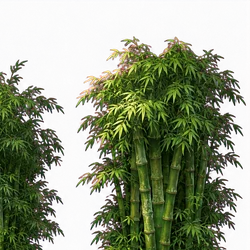
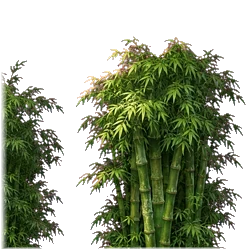
Fix nen map: map-full phu kin hinh thoi (outpaint nua phai, 2304x1152), overview zoom vua khit + center map, bo rectangle fog -> gradient mem, bamboo het vien hop (alpha bien 91->0), cache-bust asset ?v=26

Changed region(s): [[0.308, 0.14, 0.98, 1.0], [0.0, 0.224, 0.28, 1.0], [0.28, 0.42, 0.308, 0.448]]

diff --git a/js/game.js b/js/game.js
@@ -245,12 +245,12 @@ class Main extends Phaser.Scene {
     const M = this.M = this.cache.json.get('man');
     this.load.spritesheet('tiles', 'assets/tiles/terrain-base.png', { frameWidth: 128, frameHeight: 64 });
     for (const p of ['pine', 'oak', 'sakura', 'rock', 'bush', 'lantern', 'grass', 'bamboo', 'willow', 'bamboo-hedge', 'bamboo-clump', 'bamboo-strip', 'bamboo-far', 'bridge', 'shrine', 'paddy', 'hut', 'cart',
-      'house-a', 'house-b', 'house-c', 'house-d', 'house-e', 'house-f', 'gate', 'flag', 'drum', 'well']) this.load.image(p, (p.startsWith('house-') ? 'assets/props2/' : 'assets/props3/') + p + '.webp');
+      'house-a', 'house-b', 'house-c', 'house-d', 'house-e', 'house-f', 'gate', 'flag', 'drum', 'well']) this.load.image(p, (p.startsWith('house-') ? 'assets/props2/' : 'assets/props3/') + p + '.webp?v=' + (window.__KT_VER || 26));
     for (const [cid, ch] of Object.entries(M.chars)) { this.load.image('map-hd:' + cid, 'assets/map-hd-png/' + cid + '.png'); for (const [cl, c] of Object.entries(ch.clips)) { this.load.spritesheet(cid + ':' + cl, LT + c.file, { frameWidth: c.w, frameHeight: c.h }); this.load.spritesheet('hdx:' + cid + ':' + cl, HDLT + c.file, { frameWidth: c.w * 2, frameHeight: c.h * 2 }); } }
     for (const k of ['npc-pho', 'npc-mo']) this.load.image(k, LT + k + '.webp');
     for (const k of ['grass', 'dirt', 'brick', 'stone']) this.load.image('tex-' + k, 'assets/tex/' + k + '.jpg');
     this.load.image('tex-ground-paint', 'assets/tex/ground-paint.webp');
-    this.load.image('map-full', 'assets/tex/map-full.jpg');
+    this.load.image('map-full', 'assets/tex/map-full.jpg?v=' + (window.__KT_VER || 26));
     this.load.json('propdefs', 'assets/props.json');
     this.load.json('walkmask', 'assets/data/walkmask.json');
     this.load.image('arena', 'assets/arena.jpg');
@@ -450,8 +450,15 @@ class Main extends Phaser.Scene {
       for (let i = 0; i < 26; i++) { const t = i / 26; g.fillStyle(0x0a1208, t * 0.055); g.fillCircle(R0 * 0.62, R0 * 0.62, R0 * (0.74 - t * 0.46)); }
       g.generateTexture('vig', Math.round(R0 * 1.3), Math.round(R0 * 1.3)); g.destroy();
       const vig = this.add.image(innerWidth / 2, innerHeight / 2, 'vig').setScrollFactor(0).setDepth(9e5).setAlpha(0.55);
-      const fog = this.add.rectangle(innerWidth / 2, innerHeight * 0.12, innerWidth * 1.2, innerHeight * 0.5, 0xcfd8c0, 0.10).setScrollFactor(0).setDepth(9e4);
-      this.scale.on('resize', sz => { vig.setPosition(sz.width / 2, sz.height / 2).setDisplaySize(sz.width * 1.15, sz.height * 1.15); fog.setPosition(sz.width / 2, sz.height * 0.12).setSize(sz.width * 1.2, sz.height * 0.5); });
+      // sương mù phía xa: gradient mềm (bỏ rectangle phẳng -> hết hình chữ nhật mờ có cạnh cứng)
+      const cvF = document.createElement('canvas'); cvF.width = 8; cvF.height = 256;
+      const cf = cvF.getContext('2d'); const grF = cf.createLinearGradient(0, 0, 0, 256);
+      grF.addColorStop(0, 'rgba(207,216,192,0)'); grF.addColorStop(0.42, 'rgba(207,216,192,0.13)'); grF.addColorStop(1, 'rgba(207,216,192,0)');
+      cf.fillStyle = grF; cf.fillRect(0, 0, 8, 256);
+      if (this.textures.exists('haze')) this.textures.remove('haze');
+      this.textures.addCanvas('haze', cvF);
+      const fog = this.add.image(innerWidth / 2, innerHeight * 0.06, 'haze').setScrollFactor(0).setDepth(9e4).setDisplaySize(innerWidth, innerHeight * 0.5);
+      this.scale.on('resize', sz => { vig.setPosition(sz.width / 2, sz.height / 2).setDisplaySize(sz.width * 1.15, sz.height * 1.15); fog.setPosition(sz.width / 2, sz.height * 0.06).setDisplaySize(sz.width, sz.height * 0.5); });
       this.atmo = { vig, fog }; }
 
     // input
@@ -593,7 +600,14 @@ if ($('ovBtn')) $('ovBtn').onclick = () => this.toggleOverview(); $('skAuto').on
     const on = force === undefined ? !this.overview : !!force;
     this.overview = on;
     const cam = this.cameras.main;
-    cam.setZoom(on ? 0.11 * DPR : camZoomFor(innerWidth, innerHeight));
+    if (on) {
+      // zoom vua khit ca hinh thoi (truoc day fix 0.11 -> map chi chiem nua trai man hinh)
+      const zf = Math.min(this.scale.width / (N * TW + 160), this.scale.height / (N * TH + 120));
+      cam.stopFollow(); cam.setZoom(zf); cam.centerOn(0, N * TH / 2);
+    } else {
+      cam.setZoom(camZoomFor(innerWidth, innerHeight));
+      cam.startFollow(this.hero.spr, true, 0.12, 0.12);
+    }
     HUD.toast(on ? 'Toàn map · bấm M để quay lại' : 'Quay lại');
     for (const m of this.mobs) if (!m.dead) { m.spr.setVisible(true); if (m.shadow) m.shadow.setVisible(true); }
   }

diff --git a/index.html b/index.html
@@ -120,11 +120,11 @@
 <div id="err" style="display:none;position:fixed;left:0;right:0;bottom:0;max-height:45%;overflow:auto;background:#5a0f0f;color:#ffd9d9;font:12px/1.35 Consolas,monospace;padding:8px 10px;z-index:9999;white-space:pre-wrap"></div>
 <script src="vendor/phaser.min.js"></script>
 <script src="js/ground.js"></script>
-<script>window.__KT_VER=20;</script>
-<script src="js/loot.js?v=25"></script>
-<script src="js/story.js?v=25"></script>
-<script src="js/afk-battle.js?v=25"></script>
-<script src="js/game.js?v=25"></script>
+<script>window.__KT_VER=26;</script>
+<script src="js/loot.js?v=26"></script>
+<script src="js/story.js?v=26"></script>
+<script src="js/afk-battle.js?v=26"></script>
+<script src="js/game.js?v=26"></script>
 
 <div id="touch" style="display:none">
   <div id="joy"><i></i></div>
